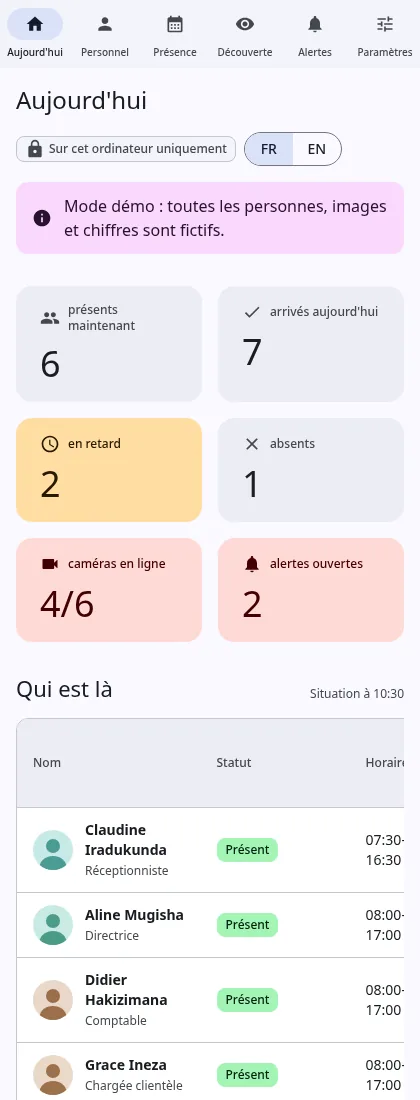
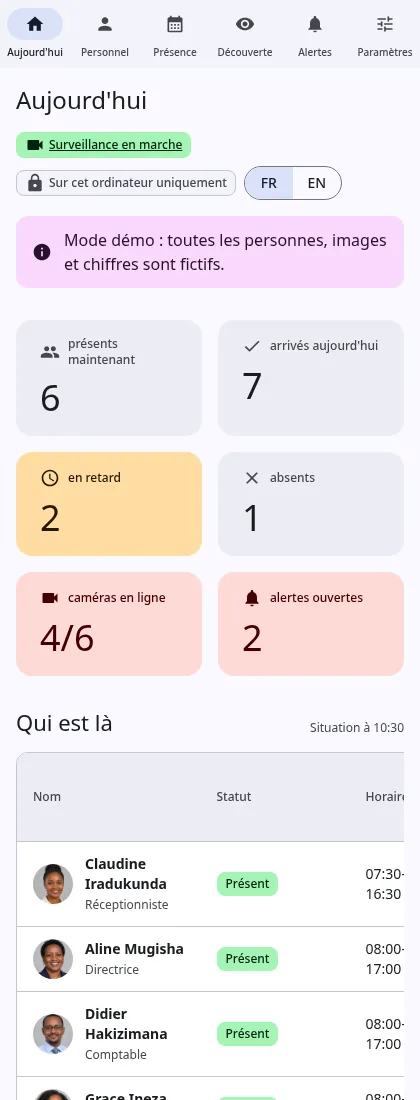
Screens with AI-generated demo portraits, editable Paramètres, manual start (lao start/stop)

Changed region(s): [[0.031, 0.0927, 0.9595, 1.0], [0.4952, 0.68, 0.681, 1.0]]

diff --git a/index.html b/index.html
@@ -133,13 +133,14 @@ h3{margin:0 0 6px;font-size:1.08rem;letter-spacing:-.01em}.sub{color:var(--muted
   <div class="split2"><ul class="points"><li class="point"><h3>Aucun cloud</h3><p>Images, visages et feuilles de temps restent dans le bureau. Rien n&#x27;est envoyé en ligne.</p></li><li class="point"><h3>Chiffré au repos</h3><p>Base de données et extraits vidéo chiffrés, clés dans le trousseau du système.</p></li><li class="point"><h3>Accès verrouillé</h3><p>Page servie sur l&#x27;ordinateur lui-même, jeton par session, contrôle d&#x27;origine, politique de sécurité stricte.</p></li><li class="point"><h3>Contrôle humain</h3><p>Inscriptions, confirmations et réponses aux alertes passent par le responsable, et sont journalisées.</p></li><li class="point"><h3>Minimisation</h3><p>Zones de travail uniquement ; personnes non examinées supprimées après 3 jours ; extraits à durée limitée.</p></li><li class="point"><h3>Matériel existant</h3><p>Un ordinateur de bureau et les caméras déjà en place suffisent.</p></li></ul><img class="side" src="img/local.webp" alt="" width="880" height="663" loading="lazy" decoding="async"></div>
 </section>
 <section id="fonctionnalites" class="sec">
-  <p class="kicker">Fonctionnalités</p><h2>Un seul tableau de bord pour le personnel.</h2><p class="sub">Captures du mode démo : employés fictifs, silhouettes générées, journée simulée.</p>
+  <p class="kicker">Fonctionnalités</p><h2>Un seul tableau de bord pour le personnel.</h2><p class="sub">Captures du mode démo : employés fictifs aux portraits générés par IA, journée simulée.</p>
   <figure class="feature reveal"><div class="shot"><img src="img/app-aujourdhui.webp" alt="Aujourd&#x27;hui" width="1200" height="833" loading="lazy" decoding="async"></div>
 <figcaption><span class="num">01</span><h3>Aujourd&#x27;hui</h3><p>Qui est présent maintenant, arrivées et retards par employé, employés par zone, état de chaque caméra et alertes ouvertes.</p></figcaption></figure><figure class="feature reveal flip"><div class="shot"><img src="img/app-presence-semaine.webp" alt="Présence" width="1200" height="833" loading="lazy" decoding="async"></div>
 <figcaption><span class="num">02</span><h3>Présence</h3><p>Feuilles de temps par jour et par semaine comparées aux horaires prévus, export CSV pour la paie et les RH.</p></figcaption></figure><figure class="feature reveal"><div class="shot"><img src="img/app-personnel.webp" alt="Personnel" width="1200" height="833" loading="lazy" decoding="async"></div>
 <figcaption><span class="num">03</span><h3>Personnel</h3><p>Les employés inscrits, leur rôle, leur horaire et leur statut du jour.</p></figcaption></figure><figure class="feature reveal flip"><div class="shot"><img src="img/app-alertes.webp" alt="Alertes et journal" width="1200" height="833" loading="lazy" decoding="async"></div>
 <figcaption><span class="num">04</span><h3>Alertes et journal</h3><p>Incidents avec extrait chiffré, réponse du responsable en un clic, seuils qui s&#x27;ajustent, journal de toutes les décisions.</p></figcaption></figure><figure class="feature reveal"><div class="shot"><img src="img/app-parametres.webp" alt="Paramètres" width="1200" height="833" loading="lazy" decoding="async"></div>
-<figcaption><span class="num">05</span><h3>Paramètres</h3><p>Caméras, heures d&#x27;ouverture, horaires du personnel et durées de conservation.</p></figcaption></figure>
+<figcaption><span class="num">05</span><h3>Paramètres</h3><p>Noms et zones des caméras, jours et heures de chaque employé, durée de conservation des extraits : chaque modification est vérifiée et journalisée.</p></figcaption></figure><figure class="feature reveal flip"><div class="shot"><img src="img/app-etat.webp" alt="Démarrage manuel" width="1200" height="833" loading="lazy" decoding="async"></div>
+<figcaption><span class="num">06</span><h3>Démarrage manuel</h3><p>« lao start » lance la surveillance et le tableau de bord, « lao stop » arrête tout. Rien ne démarre tout seul ; l&#x27;ordinateur reste éveillé seulement pendant le fonctionnement.</p></figcaption></figure>
   <figure class="mobile reveal"><img src="img/app-mobile.webp" alt="Aussi lisible sur téléphone." width="420" height="1100" loading="lazy" decoding="async"><figcaption>Aussi lisible sur téléphone.</figcaption></figure>
 </section>
 <section id="impact" class="sec tint">
@@ -149,7 +150,7 @@ h3{margin:0 0 6px;font-size:1.08rem;letter-spacing:-.01em}.sub{color:var(--muted
 </section>
 <section id="feuille-de-route" class="sec">
   <p class="kicker">Feuille de route</p><h2>Une architecture modulaire, prête à grandir.</h2>
-  <ol class="road"><li class="step reveal"><span class="when">Aujourd&#x27;hui · v1</span><p>Aujourd&#x27;hui, Présence (jour, semaine, CSV), Personnel, Alertes et journal, Découverte, Paramètres, mode démo, FR / EN.</p></li><li class="step reveal"><span class="when">Décembre 2026</span><p>Inscription guidée dans l&#x27;application (webcam ou caméra, angles, contrôles de qualité) et démarrage en une commande.</p></li><li class="step reveal"><span class="when">T1 2027</span><p>Pilote en bureau, rapports mensuels, plusieurs sites, rôles responsable et RH.</p></li><li class="step reveal"><span class="when">T2 2027</span><p>Nouveaux modules de sécurité en option, ajoutés comme sections du même tableau de bord, selon les besoins et le cadre légal.</p></li><li class="step reveal"><span class="when">Ensuite</span><p>Analyse d&#x27;impact, certification, déploiement auprès des administrations et des PME.</p></li></ol>
+  <ol class="road"><li class="step reveal"><span class="when">Aujourd&#x27;hui · v1</span><p>Aujourd&#x27;hui, Présence (jour, semaine, CSV), Personnel, Alertes et journal, Découverte, Paramètres modifiables, démarrage « lao start / lao stop », mode démo, FR / EN.</p></li><li class="step reveal"><span class="when">Décembre 2026</span><p>Inscription guidée dans l&#x27;application (webcam ou caméra, angles, contrôles de qualité).</p></li><li class="step reveal"><span class="when">T1 2027</span><p>Pilote en bureau, rapports mensuels, plusieurs sites, rôles responsable et RH.</p></li><li class="step reveal"><span class="when">T2 2027</span><p>Nouveaux modules de sécurité en option, ajoutés comme sections du même tableau de bord, selon les besoins et le cadre légal.</p></li><li class="step reveal"><span class="when">Ensuite</span><p>Analyse d&#x27;impact, certification, déploiement auprès des administrations et des PME.</p></li></ol>
 </section>
 <section id="contact" class="sec contact">
   <h2>Parlons de votre bureau.</h2><p class="sub">Démonstration sur données fictives disponible sur demande.</p>

diff --git a/en/index.html b/en/index.html
@@ -133,13 +133,14 @@ h3{margin:0 0 6px;font-size:1.08rem;letter-spacing:-.01em}.sub{color:var(--muted
   <div class="split2"><ul class="points"><li class="point"><h3>No cloud</h3><p>Pictures, faces and timesheets stay in the office. Nothing is sent online.</p></li><li class="point"><h3>Encrypted at rest</h3><p>Encrypted database and video clips, keys in the system keychain.</p></li><li class="point"><h3>Locked-down access</h3><p>Served on the computer itself, a per-session token, origin checks, a strict security policy.</p></li><li class="point"><h3>Human in control</h3><p>Enrolments, confirmations and alert answers go through the manager, and are logged.</p></li><li class="point"><h3>Minimisation</h3><p>Work areas only; unreviewed people deleted after 3 days; clips kept for a limited time.</p></li><li class="point"><h3>Existing hardware</h3><p>An office computer and the cameras already in place are enough.</p></li></ul><img class="side" src="../img/local.webp" alt="" width="880" height="663" loading="lazy" decoding="async"></div>
 </section>
 <section id="fonctionnalites" class="sec">
-  <p class="kicker">Features</p><h2>One dashboard for your staff.</h2><p class="sub">Screens from demo mode: fictional employees, generated silhouettes, a simulated day.</p>
+  <p class="kicker">Features</p><h2>One dashboard for your staff.</h2><p class="sub">Screens from demo mode: fictional employees, AI-generated portraits, a simulated day.</p>
   <figure class="feature reveal"><div class="shot"><img src="../img/app-aujourdhui.webp" alt="Today" width="1200" height="833" loading="lazy" decoding="async"></div>
 <figcaption><span class="num">01</span><h3>Today</h3><p>Who is in now, arrivals and late arrivals per employee, employees per area, each camera&#x27;s health and open alerts.</p></figcaption></figure><figure class="feature reveal flip"><div class="shot"><img src="../img/app-presence-semaine.webp" alt="Attendance" width="1200" height="833" loading="lazy" decoding="async"></div>
 <figcaption><span class="num">02</span><h3>Attendance</h3><p>Day and week timesheets against the planned shifts, CSV export for payroll and HR.</p></figcaption></figure><figure class="feature reveal"><div class="shot"><img src="../img/app-personnel.webp" alt="People" width="1200" height="833" loading="lazy" decoding="async"></div>
 <figcaption><span class="num">03</span><h3>People</h3><p>Enrolled employees with their role, shift and today&#x27;s status.</p></figcaption></figure><figure class="feature reveal flip"><div class="shot"><img src="../img/app-alertes.webp" alt="Alerts and log" width="1200" height="833" loading="lazy" decoding="async"></div>
 <figcaption><span class="num">04</span><h3>Alerts and log</h3><p>Incidents with an encrypted clip, one-click answers, thresholds that adapt, and a log of every decision.</p></figcaption></figure><figure class="feature reveal"><div class="shot"><img src="../img/app-parametres.webp" alt="Settings" width="1200" height="833" loading="lazy" decoding="async"></div>
-<figcaption><span class="num">05</span><h3>Settings</h3><p>Cameras, opening hours, staff shifts and retention periods.</p></figcaption></figure>
+<figcaption><span class="num">05</span><h3>Settings</h3><p>Camera names and areas, each employee&#x27;s days and hours, clip retention: every change is checked and logged.</p></figcaption></figure><figure class="feature reveal flip"><div class="shot"><img src="../img/app-etat.webp" alt="Manual start" width="1200" height="833" loading="lazy" decoding="async"></div>
+<figcaption><span class="num">06</span><h3>Manual start</h3><p>“lao start” runs the watch and the dashboard, “lao stop” stops everything. Nothing starts by itself; the computer is kept awake only while it runs.</p></figcaption></figure>
   <figure class="mobile reveal"><img src="../img/app-mobile.webp" alt="Readable on a phone too." width="420" height="1100" loading="lazy" decoding="async"><figcaption>Readable on a phone too.</figcaption></figure>
 </section>
 <section id="impact" class="sec tint">
@@ -149,7 +150,7 @@ h3{margin:0 0 6px;font-size:1.08rem;letter-spacing:-.01em}.sub{color:var(--muted
 </section>
 <section id="feuille-de-route" class="sec">
   <p class="kicker">Roadmap</p><h2>A modular architecture, ready to grow.</h2>
-  <ol class="road"><li class="step reveal"><span class="when">Now · v1</span><p>Today, Attendance (day, week, CSV), People, Alerts and log, Discovery, Settings, demo mode, FR / EN.</p></li><li class="step reveal"><span class="when">December 2026</span><p>Guided enrolment in the app (webcam or camera, angles, quality checks) and a one-command start.</p></li><li class="step reveal"><span class="when">Q1 2027</span><p>Office pilot, monthly reports, several sites, manager and HR roles.</p></li><li class="step reveal"><span class="when">Q2 2027</span><p>Optional new security modules, added as sections of the same dashboard, as needs and the law allow.</p></li><li class="step reveal"><span class="when">Then</span><p>Impact assessment, certification, rollout to administrations and SMEs.</p></li></ol>
+  <ol class="road"><li class="step reveal"><span class="when">Now · v1</span><p>Today, Attendance (day, week, CSV), People, Alerts and log, Discovery, editable Settings, “lao start / lao stop”, demo mode, FR / EN.</p></li><li class="step reveal"><span class="when">December 2026</span><p>Guided enrolment in the app (webcam or camera, angles, quality checks).</p></li><li class="step reveal"><span class="when">Q1 2027</span><p>Office pilot, monthly reports, several sites, manager and HR roles.</p></li><li class="step reveal"><span class="when">Q2 2027</span><p>Optional new security modules, added as sections of the same dashboard, as needs and the law allow.</p></li><li class="step reveal"><span class="when">Then</span><p>Impact assessment, certification, rollout to administrations and SMEs.</p></li></ol>
 </section>
 <section id="contact" class="sec contact">
   <h2>Let&#x27;s talk about your office.</h2><p class="sub">A demo on made-up data is available on request.</p>
